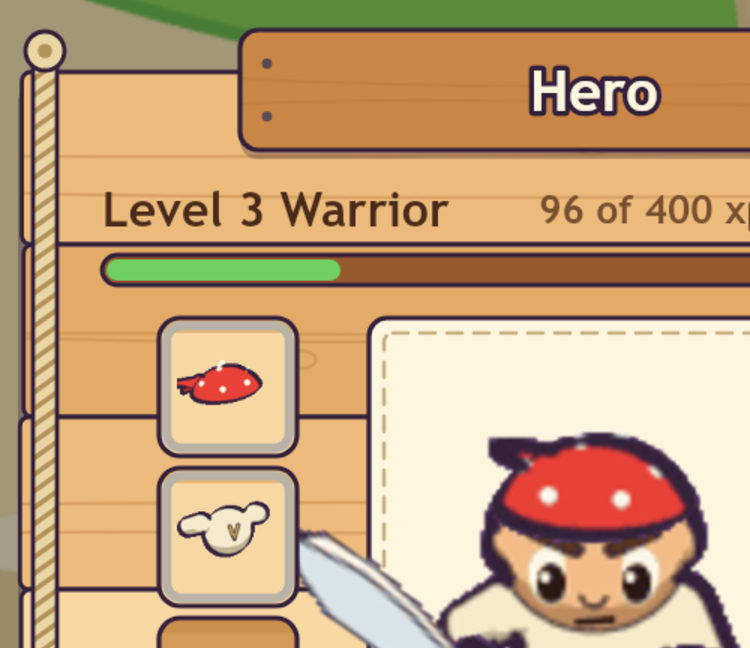
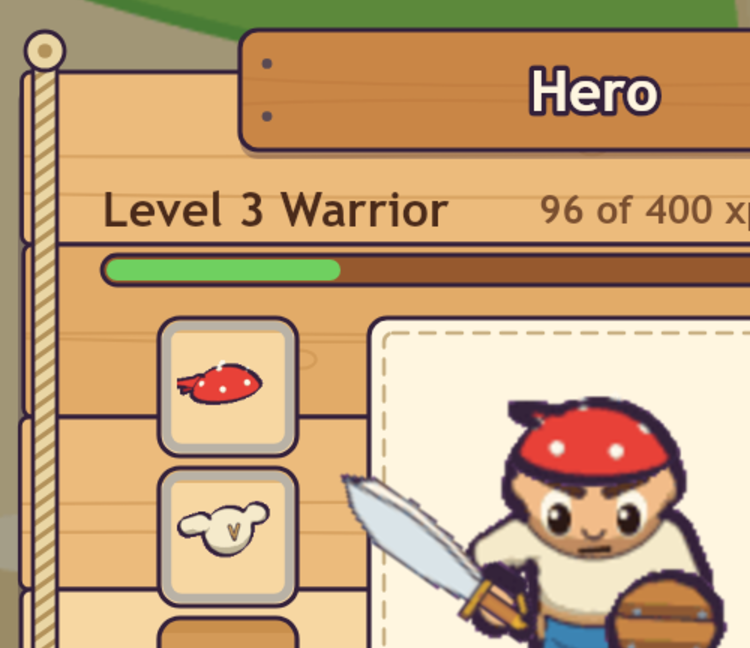
Art Director: the three wooden looks redrawn with Robin's nine places on the hero (Leonard, AD)
Robin, 2026-11-20: "We need slots for trinkets also. Two trinkets. I think we can skip rings. Do:
Head, chest, legs, boots, necklace, two trinkets." The stills follow the window as the game has it
now: nine places, the tapped piece beside the worn one. Still his to pick.

Changed region(s): [[0.3987, 0.5864, 1.0, 1.0]]

diff --git a/Art Director/concepts/wood/still.js b/Art Director/concepts/wood/still.js
@@ -2,8 +2,10 @@
 // Robin, 2026-11-20, in Victor, GD's chat: "You need to have some nice pirate design to menus and panels. Like some wooden
 // feeling. Right now it looks bland. Also update icons so they look fitting." The interface's look is big work, so three
 // real and different stills for him to pick from. Each is the SAME window, the hero sheet as the game lays it out today
-// (client/src/view/panels.ts, buildSheet: eight slots for gear, his numbers, the bag of 7 by 3, the card, the buttons),
-// with the same things in it. What differs is the idea:
+// (client/src/view/panels.ts, buildSheet), with the same things in it. The places on him are Robin's own list (2026-11-20:
+// "Do: Head, chest, legs, boots, necklace, two trinkets"): head, chest, legs, boots down the left; cutlass, buckler,
+// necklace down the right; two trinkets side by side under the necklace. The card sets the tapped piece beside the worn one
+// (Robin, 2026-11-20: "when you look at a sword you should see your equipped one next to it"). What differs is the idea:
 //   1 planks   boards lashed with rope: light wood, sailcloth, a painted sign. Sunny, a castaway's raft.
 //   2 chart    a sheet of parchment pinned on a dark chart table: ink, a red ribbon, wax. The easiest to read.
 //   3 chest    the inside of a treasure chest: dark wood, iron bands, gold plates, velvet. The richest.
@@ -34,12 +36,12 @@ function rope(g, x, y0, y1, w, col, lo) { g.save(); rr(g, x - w / 2, y0, w, y1 -
 const MARK = {
   hat: g => { g.moveTo(-12, 5); g.quadraticCurveTo(-14, -2, -6, -3); g.quadraticCurveTo(0, -13, 6, -3); g.quadraticCurveTo(14, -2, 12, 5); g.quadraticCurveTo(0, 0, -12, 5); g.closePath(); },
   coat: g => { g.moveTo(-5, -10); g.lineTo(-1.5, -7); g.lineTo(1.5, -7); g.lineTo(5, -10); g.lineTo(12, -5); g.lineTo(9, 0); g.lineTo(6, -2); g.lineTo(7, 11); g.lineTo(-7, 11); g.lineTo(-6, -2); g.lineTo(-9, 0); g.lineTo(-12, -5); g.closePath(); },
-  gloves: g => { P.rr(g, -6, -11, 12, 17, 5); g.moveTo(-6, -1); g.quadraticCurveTo(-12, -4, -11, 2); g.quadraticCurveTo(-10, 6, -6, 5); P.rr(g, -7, 6, 14, 5, 2); },
+  legs: g => { g.moveTo(-9, -10); g.lineTo(9, -10); g.lineTo(10.5, 10); g.lineTo(3, 10); g.lineTo(0, -1); g.lineTo(-3, 10); g.lineTo(-10.5, 10); g.closePath(); },
   boots: g => { g.moveTo(-6, -11); g.lineTo(3, -11); g.lineTo(3, 2); g.quadraticCurveTo(12, 3, 12, 9); g.lineTo(12, 11); g.lineTo(-6, 11); g.closePath(); },
   weapon: g => { g.moveTo(-10, 10); g.lineTo(-6, 6); g.lineTo(-8, 3); g.lineTo(-5, 1); g.lineTo(-3, 4); g.quadraticCurveTo(7, 0, 11, -11); g.quadraticCurveTo(11, 3, -1, 8); g.lineTo(-6, 12); g.closePath(); },
   shield: g => { g.arc(0, 0, 11, 0, 7); g.closePath(); g.moveTo(4, 0); g.arc(0, 0, 4, 0, 7); },
-  ring: g => { g.arc(0, 3, 8, 0, 7); g.closePath(); g.moveTo(5, 3); g.arc(0, 3, 5, 0, 7, true); g.moveTo(0, -11); g.lineTo(4, -7); g.lineTo(0, -3); g.lineTo(-4, -7); g.closePath(); },
-  charm: g => { g.moveTo(-7, -5); g.quadraticCurveTo(0, -9, 7, -5); g.quadraticCurveTo(5, 5, 0, 12); g.quadraticCurveTo(-5, 5, -7, -5); g.closePath(); g.moveTo(3, -9); g.arc(0, -9, 3, 0, 7); },
+  necklace: g => { g.moveTo(-11, -9); g.quadraticCurveTo(0, 9, 11, -9); g.lineTo(8.4, -9.6); g.quadraticCurveTo(0, 5, -8.4, -9.6); g.closePath(); g.moveTo(-4, 2.5); g.lineTo(4, 2.5); g.lineTo(0, 12); g.closePath(); },
+  trinket: g => { g.arc(0, 0, 10.5, 0, 7); g.closePath(); g.moveTo(0, -6); g.lineTo(4.5, 0); g.lineTo(0, 6); g.lineTo(-4.5, 0); g.closePath(); },
 };
 const mark = (g, kind, x, y, fill, line, lw = 1.5) => { g.save(); g.translate(x, y); g.beginPath(); MARK[kind](g); if (fill) { g.fillStyle = fill; g.fill('evenodd'); } if (line) { g.strokeStyle = line; g.lineWidth = lw; g.lineJoin = 'round'; g.stroke(); } g.restore(); };
 const topIcons = (g, face, fill, line) => { for (const [k, x] of [['menu', 30], ['bag', 286], ['chart', 334], ['hero', 382]]) { face(x, 30); g.fillStyle = fill; g.strokeStyle = line; g.lineWidth = k === 'menu' ? 2.4 : 1.5; g.lineCap = 'round'; G.ICON[k](g, x, 30.5, 1); } };
@@ -104,7 +106,7 @@ const chest = {
     shadow(g, shape, 3); g.save(); shape(); g.fillStyle = S3.gold; g.fill(); g.clip(); g.fillStyle = S3.goldHi; g.fillRect(x, y, w, h * 0.34); g.fillStyle = S3.goldLo; g.fillRect(x, y + h * 0.84, w, h * 0.16); g.restore(); shape(); ol(g); stud(g, x + 17, y + h / 2, 3, S3.goldLo, S3.goldHi); stud(g, x + w - 17, y + h / 2, 3, S3.goldLo, S3.goldHi); txt(g, t, CX, F.y + 6.5, 19, '#3a2414'); },
   close(g, x, y) { shadow(g, () => disc(g, x, y, 16), 2); disc(g, x, y, 16); g.fillStyle = S3.gold; g.fill(); ol(g); g.save(); disc(g, x, y, 12); g.fillStyle = '#e0352f'; g.fill(); g.clip(); g.fillStyle = '#f26a5c'; g.beginPath(); g.moveTo(x - 12, y - 12); g.lineTo(x + 4, y - 12); g.lineTo(x - 12, y + 4); g.closePath(); g.fill(); g.restore(); disc(g, x, y, 12); ol(g, 1.3); g.strokeStyle = '#ffffff'; g.lineWidth = 2.8; g.lineCap = 'round'; G.ICON.close(g, x, y, 0.82); },
   lined(g, x, y, w, h, r, rim) { g.save(); rr(g, x, y, w, h, r); g.fillStyle = S3.velvet; g.fill(); g.clip(); g.fillStyle = S3.velvetLo; g.fillRect(x, y, w, 6); g.fillStyle = S3.velvetHi; g.fillRect(x, y + h - 4, w, 4); g.restore(); rr(g, x + 1.6, y + 1.6, w - 3.2, h - 3.2, r - 1); ol(g, 3, rim); rr(g, x, y, w, h, r); ol(g); rr(g, x + 3.4, y + 3.4, w - 6.8, h - 6.8, Math.max(1, r - 3)); ol(g, 1, INK); },
-  heroBox(g, x, y, w, h) { this.lined(g, x - w / 2, y - h / 2, w, h, 8, S3.gold); g.save(); g.globalAlpha = 0.5; g.beginPath(); g.ellipse(x, y + 22, 52, 66, 0, 0, 7); g.fillStyle = S3.velvetHi; g.fill(); g.restore(); },
+  heroBox(g, x, y, w, h) { this.lined(g, x - w / 2, y - h / 2, w, h, 8, S3.gold); g.save(); rr(g, x - w / 2 + 5, y - h / 2 + 5, w - 10, h - 10, 4); g.clip(); g.globalAlpha = 0.5; g.beginPath(); g.ellipse(x, y + 14, 50, 56, 0, 0, 7); g.fillStyle = S3.velvetHi; g.fill(); g.restore(); },
   card(g, x, y, w, h) { rr(g, x - w / 2, y - h / 2, w, h, 8); g.fillStyle = S3.inset; g.fill(); rr(g, x - w / 2 + 1.6, y - h / 2 + 1.6, w - 3.2, h - 3.2, 7); ol(g, 2.4, S3.goldLo); rr(g, x - w / 2, y - h / 2, w, h, 8); ol(g); },
   slot(g, x, y, s, rar, kind, chosen) { const q = s / 2; if (rar) { g.save(); rr(g, x - q, y - q, s, s, 6); g.fillStyle = '#ecdcb4'; g.fill(); g.clip(); g.fillStyle = '#d6c294'; g.fillRect(x - q, y - q, s, 6); g.restore(); rr(g, x - q + 1.6, y - q + 1.6, s - 3.2, s - 3.2, 5); ol(g, 3, rar); rr(g, x - q, y - q, s, s, 6); ol(g); rr(g, x - q + 3.4, y - q + 3.4, s - 6.8, s - 6.8, 3); ol(g, 1, INK); } else this.lined(g, x - q, y - q, s, s, 6, S3.ironHi); if (!rar && kind) mark(g, kind, x, y + 1, S3.velvetHi, null); if (chosen) { rr(g, x - q - 3, y - q - 3, s + 6, s + 6, 8); ol(g, 3, S3.goldHi); rr(g, x - q - 4.6, y - q - 4.6, s + 9.2, s + 9.2, 9); ol(g, 1.2); } },
   bar(g, x, y, w, part) { rr(g, x, y - 5, w, 10, 5); g.fillStyle = S3.grain; g.fill(); ol(g, 1.4); rr(g, x + 1.5, y - 3.5, (w - 3) * part, 7, 3.5); g.fillStyle = G.COL.xp; g.fill(); rr(g, x, y - 5, w, 10, 5); ol(g, 1.6, S3.goldLo); },
@@ -124,18 +126,21 @@ async function main() {
   K.panel(g); K.title(g, 'Hero'); K.close(g, F.x + F.w - 12, F.y + 10);
   const left = F.x + 22, right = F.x + F.w - 22, top = F.y + 82, I = K.ink;
   txt(g, 'Level 3 Warrior', left, F.y + 46, 16, I.text, 'left'); txt(g, '96 of 400 xp', CX + 20, F.y + 46, 13, I.dim); txt(g, '214 gold', right, F.y + 46, 15, I.gold, 'right'); K.bar(g, left, F.y + 66, F.w - 44, 0.24);
-  K.heroBox(g, CX, top + 98, 150, 196); D.hero(g, A, { action: 'stand', facing: 's', i: 0, cutlass: 'sailor', buckler: 'plank', hat: 'bandana' }, CX, top + 168, 0.5 * 2.7);
+  K.heroBox(g, CX, top + 73, 150, 146); D.hero(g, A, { action: 'stand', facing: 's', i: 0, cutlass: 'sailor', buckler: 'plank', hat: 'bandana' }, CX, top + 132, 0.5 * 2.2);
   const icon = (key, x, y, size) => { const f = icons.j.frames['icon/' + key].frame, k = size * 0.74 / (f.w / 2); g.save(); g.translate(x, y); g.scale(0.5 * k, 0.5 * k); D.pic(g, icons, 'icon/' + key); g.restore(); };
-  const worn = { hat: ['hat-bandana', 'common'], coat: ['coat-linen', 'common'], gloves: null, boots: null, weapon: ['cutlass-sailor', 'uncommon'], shield: ['buckler-plank', 'common'], ring: null, charm: null };
-  [['hat', 'coat', 'gloves', 'boots'], ['weapon', 'shield', 'ring', 'charm']].forEach((col, c) => col.forEach((kind, i) => { const x = CX + (c ? 122 : -122), y = top + 23 + i * 50, it = worn[kind]; K.slot(g, x, y, 46, it ? G.RARITY[it[1]] : null, kind, false); if (it) icon(it[0], x, y, 46); }));
+  const worn = { hat: ['hat-bandana', 'common'], coat: ['coat-linen', 'common'], weapon: ['cutlass-sailor', 'uncommon'], shield: ['buckler-plank', 'common'] };
+  const places = [...['hat', 'coat', 'legs', 'boots'].map((k, i) => [k, CX - 122, top + 23 + i * 50]), ...['weapon', 'shield', 'necklace'].map((k, i) => [k, CX + 122, top + 23 + i * 50]), ['trinket', CX + 72, top + 173], ['trinket', CX + 122, top + 173]];
+  for (const [kind, x, y] of places) { const it = worn[kind]; K.slot(g, x, y, 46, it ? G.RARITY[it[1]] : null, kind, false); if (it) icon(it[0], x, y, 46); }
+  txt(g, 'trinkets', CX + 44, top + 173, 13, I.dim, 'right');
   ['Health 142 of 160', 'A swing 14 to 19', 'Armour 6', 'Crit 10%'].forEach((line, i) => txt(g, line, i % 2 === 0 ? left + 8 : CX + 22, top + 212 + Math.floor(i / 2) * 20, 14, I.text, 'left'));
   const gy = F.y + 336; txt(g, 'Bag 9 of 20', left, gy, 13, I.dim, 'left'); txt(g, 'Potions 3 of 10', right, gy, 13, I.dim, 'right');
   const bag = [['cutlass-corsair', 'rare', 1], ['buckler-iron', 'uncommon', 1], ['hat-tricorn', 'rare', 1], ['coat-sailor', 'uncommon', 1], ['buckler-brass', 'epic', 1], ['hat-feathered', 'epic', 1], ['cutlass-rusty', 'common', 0], ['coat-corsair', 'rare', 1], ['hat-bandana', 'common', 0]], size = 46, gap = 5, gx = CX - (7 * size + 6 * gap) / 2 + size / 2;
   for (let i = 0; i < 20; i++) { const x = gx + (i % 7) * (size + gap), y = gy + 20 + size / 2 + Math.floor(i / 7) * (size + gap), it = bag[i]; K.slot(g, x, y, size, it ? G.RARITY[it[1]] : null, null, i === 0); if (it) { icon(it[0], x, y, size); if (it[2]) { g.beginPath(); g.moveTo(x + 14, y - 20); g.lineTo(x + 20, y - 10); g.lineTo(x + 8, y - 10); g.closePath(); g.fillStyle = '#3fd45a'; g.fill(); ol(g, 1.3); } } }
   const cy = gy + 20 + 3 * (size + gap) + 4, ch = 124; K.card(g, CX, cy + ch / 2, F.w - 28, ch);
-  K.slot(g, left + 36, cy + 36, 52, G.RARITY.rare, null, false); icon('cutlass-corsair', left + 36, cy + 36, 52);
-  txt(g, "Corsair's cutlass", left + 76, cy + 18, 17, K.rar(G.RARITY.rare), 'left'); txt(g, 'In the bag · rare cutlass', left + 76, cy + 38, 13, I.dim, 'left'); txt(g, 'Damage 9 to 13', left + 76, cy + 58, 15, I.text, 'left');
-  txt(g, "Against his Sailor's cutlass: +3 damage", left + 8, cy + 84, 13, I.good, 'left'); txt(g, 'Worth 42 gold at the stall', left + 8, cy + 106, 13, I.dim, 'left');
+  const half = (F.w - 28) / 2, x1 = CX - half, x2 = CX; g.fillStyle = I.dim; g.globalAlpha = 0.45; g.fillRect(CX - 1, cy + 8, 2, ch - 16); g.globalAlpha = 1;
+  const head = (x0, title, key, rar, name) => { txt(g, title, x0 + 10, cy + 13, 13, I.dim, 'left'); K.slot(g, x0 + 28, cy + 46, 40, G.RARITY[rar], null, false); icon(key, x0 + 28, cy + 46, 40); name.forEach((w, i) => txt(g, w, x0 + 54, cy + 46 + (i - (name.length - 1) / 2) * 15, 14, K.rar(G.RARITY[rar]), 'left')); };
+  head(x1, 'In the bag', 'cutlass-corsair', 'rare', ["Corsair's", 'cutlass']); head(x2, 'He wears', 'cutlass-sailor', 'uncommon', ["Sailor's", 'cutlass']);
+  const ry = cy + 78; txt(g, '13 damage', x1 + 10, ry, 14, I.text, 'left'); txt(g, '10 damage', x2 + 10, ry, 14, I.text, 'left'); txt(g, '3', x2 - 10, ry, 14, I.good, 'right'); g.beginPath(); g.moveTo(x2 - 27, ry - 6); g.lineTo(x2 - 21, ry + 4); g.lineTo(x2 - 33, ry + 4); g.closePath(); g.fillStyle = I.good; g.fill();
   const by = cy + ch + 26; K.button(g, CX - 57, by, 104, 40, 'Wear', true); K.button(g, CX + 57, by, 104, 40, 'Drop', false);
   P.save(cv, out); console.log('wrote', out);
   const close = opt('close'); if (close) { const [x, y, w, h] = [F.x - 12, F.y - 24, 250, 216], z = 3, c2 = P.createCanvas(w * z, h * z), g2 = c2.getContext('2d'); g2.imageSmoothingEnabled = true; g2.imageSmoothingQuality = 'high'; g2.drawImage(cv, x * S, y * S, w * S, h * S, 0, 0, w * z, h * z); P.save(c2, close); console.log('wrote', close); }

diff --git a/Art Director/docs/log.md b/Art Director/docs/log.md
@@ -30,3 +30,4 @@ when they matter), what was made and where (`out\<name>\`, the tool), what is wa
 - 2026-11-20: Crab Cay grown big, delivered: out/crab-cay. 2800 by 4200 units, four grounds: the beach all round with the landing in the south, the grove in the middle, the cove in the north west with its pool and the chest at the end of a side way, a reef in the north east beyond a channel (ground painted, nothing living there yet). One painted ground of 1400 by 2100 pixels at half a pixel a unit, 11.8 MB; 444 props from the small island's atlas, 313 in the way; place.json with walk, grounds and zones by level. About 44 MB decoded with everything on it. tools/isle.js is new; tools/scene.js takes --place, --mob, --lv, --no-mobs. Proposed for the reef: a wreck, a hermit crab in a tankard, an octopus in a barrel, pictures first. Not in the game, not judged by Robin. Leonard, AD.
 - 2026-11-20: Three wooden looks for the windows, for Robin to pick. Robin, in Victor, GD's chat: "You need to have some nice pirate design to menus and panels. Like some wooden feeling. Right now it looks bland. Also update icons so they look fitting." Looked at the hero window in the game's test copy first, then drew it three ways with the same things in it (concepts/wood/still.js): 1 lashed planks, 2 a chart table, 3 a treasure chest. Page https://claude.ai/artifact/JM6LsoKKQCBNXgZRpdSvwD ; pictures sent into the chat. My pick (mine): 1. Waiting for his pick; nothing of the glass changes until then. Leonard, AD.
 - 2026-11-20: Crab Cay again, with the town on it. Robin, in Victor, GD's chat: "Make the starter island a pirate town, and the other part of the island beginner friendly with low level mobs." out/crab-cay delivered a second time: the harbour town moved to the landing as it stood (home: its outline, where he wakes, the stall; the four people), the reef and the channel gone from the shape, tide flats on the east beach for the level 2 crabs, the cove across the whole north with the chest at its far east end. One atlas of 30 props for the place (tools/merge-props.js), 4 MB. About 46 MB decoded with everything on it. Victor, GD agreed to the ground at half a pixel a unit. Open: a real pirate town is big work, three stills first. Not in the game, not judged by Robin. Leonard, AD.
+- 2026-11-20: The three wooden looks redrawn with Robin's own places on the hero. Robin, in Victor, GD's chat: "We need slots for trinkets also. Two trinkets. I think we can skip rings. Do: Head, chest, legs, boots, necklace, two trinkets." Nine places as the game has them now, the card with the tapped piece beside the worn one, the hero at 2.2 times. New marks for empty places: breeches, a necklace, a trinket. Same page, same address; the picture sent into the chat again. Still waiting for his pick. Leonard, AD.

diff --git a/Art Director/concepts/wood/README.md b/Art Director/concepts/wood/README.md
@@ -6,8 +6,10 @@ and panels. Like some wooden feeling. Right now it looks bland. Also update icon
 also be more slots for items. Again, i think you can take a lot from the zite inventory and equip."
 
 Each still is the same window: the hero and his bag as the game lays it out since today (`client\src\view\panels.ts`,
-`buildSheet`: eight slots for gear, his numbers, the bag of 7 by 3, the card of the tapped piece, the buttons), with the
-same things in it. Only the look changes.
+`buildSheet`), with the same things in it. Only the look changes. The places on him are Robin's own list, of the same
+evening: "We need slots for trinkets also. Two trinkets. I think we can skip rings. Do: Head, chest, legs, boots,
+necklace, two trinkets." So nine: head, chest, legs, boots down the left; cutlass, buckler, necklace down the right; two
+trinkets side by side under the necklace. The stills were drawn first with eight other slots and redrawn the same hour.
 
 | No. | The idea | What you read on | What it costs |
 | --- | --- | --- | --- |
@@ -22,8 +24,8 @@ words on light wood are easy to read.
 https://claude.ai/artifact/JM6LsoKKQCBNXgZRpdSvwD . Nothing is built from any of them until he has picked.
 
 After the pick comes the kit for the glass: the panel, its title, the cross, the slots (empty and by rarity), the patch
-or card, the buttons, the four top buttons, a mark for each of the eight empty slots, and the twelve new gear icons
-Victor, GD listed (gloves, boots, rings, charms, three of each).
+or card, the buttons, the four top buttons, a mark for each empty place (eight marks: the two trinkets share one), and
+the twelve new gear icons Victor, GD listed (breeches, boots, necklaces, trinkets, three of each).
 
 ## The files
 
